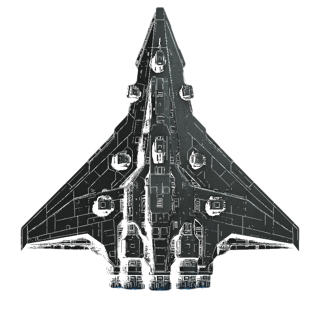
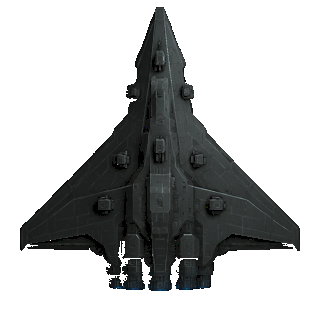
fix(art): MCC 함선 반투명(내부 비침) 수정 — 함체 불투명화 (v7.408)
MCC 8종 top 스프라이트가 배경제거로 함체 내부까지 반투명해져 전투서 배경이 비침.
테두리 연결 배경만 투명 유지(scipy flood) + 함체 alpha=255 불투명화. Chrome 실렌더 검증.

Changed region(s): [[0.0625, 0.0312, 0.9375, 0.9062]]

diff --git a/CHANGELOG.md b/CHANGELOG.md
@@ -1,3 +1,13 @@
+## 2026-06-05 v7.408 — MCC 함선 반투명(내부 비침) 수정
+
+MCC 함선 8종 top 스프라이트가 배경제거(rembg/크로마키) 과정에서 함체 내부까지 갉혀 거의 전체가
+반투명(mcc_bs: 불투명 4623 vs 반투명 24439)이라 전투에서 배경이 비쳐 유령처럼 보이던 문제.
+(FSP/CV는 불투명 정상.)
+
+수정: 테두리에서 연결된 진짜 배경만 투명 유지(scipy 라벨링 flood)하고, 함체(내부 반투명·구멍 포함)는
+alpha=255 로 불투명화. mcc_bs/crs/dst/ewar/frg/int/snp/titan 8종. Chrome 실렌더로 before/after 검증
+(유령 반투명 → 꽉 찬 함체, 실루엣 보존).
+
 ## 2026-06-05 v7.407 — 로봇 검은 박스 진짜 원인: tactical-lab 스프라이트 캐시버스트 누락
 
 전투에서 합체 슈퍼유닛(로봇/외계)이 "검은 박스 안에 유닛" = 구버전(검정배경) 이미지로 보이던 문제.
